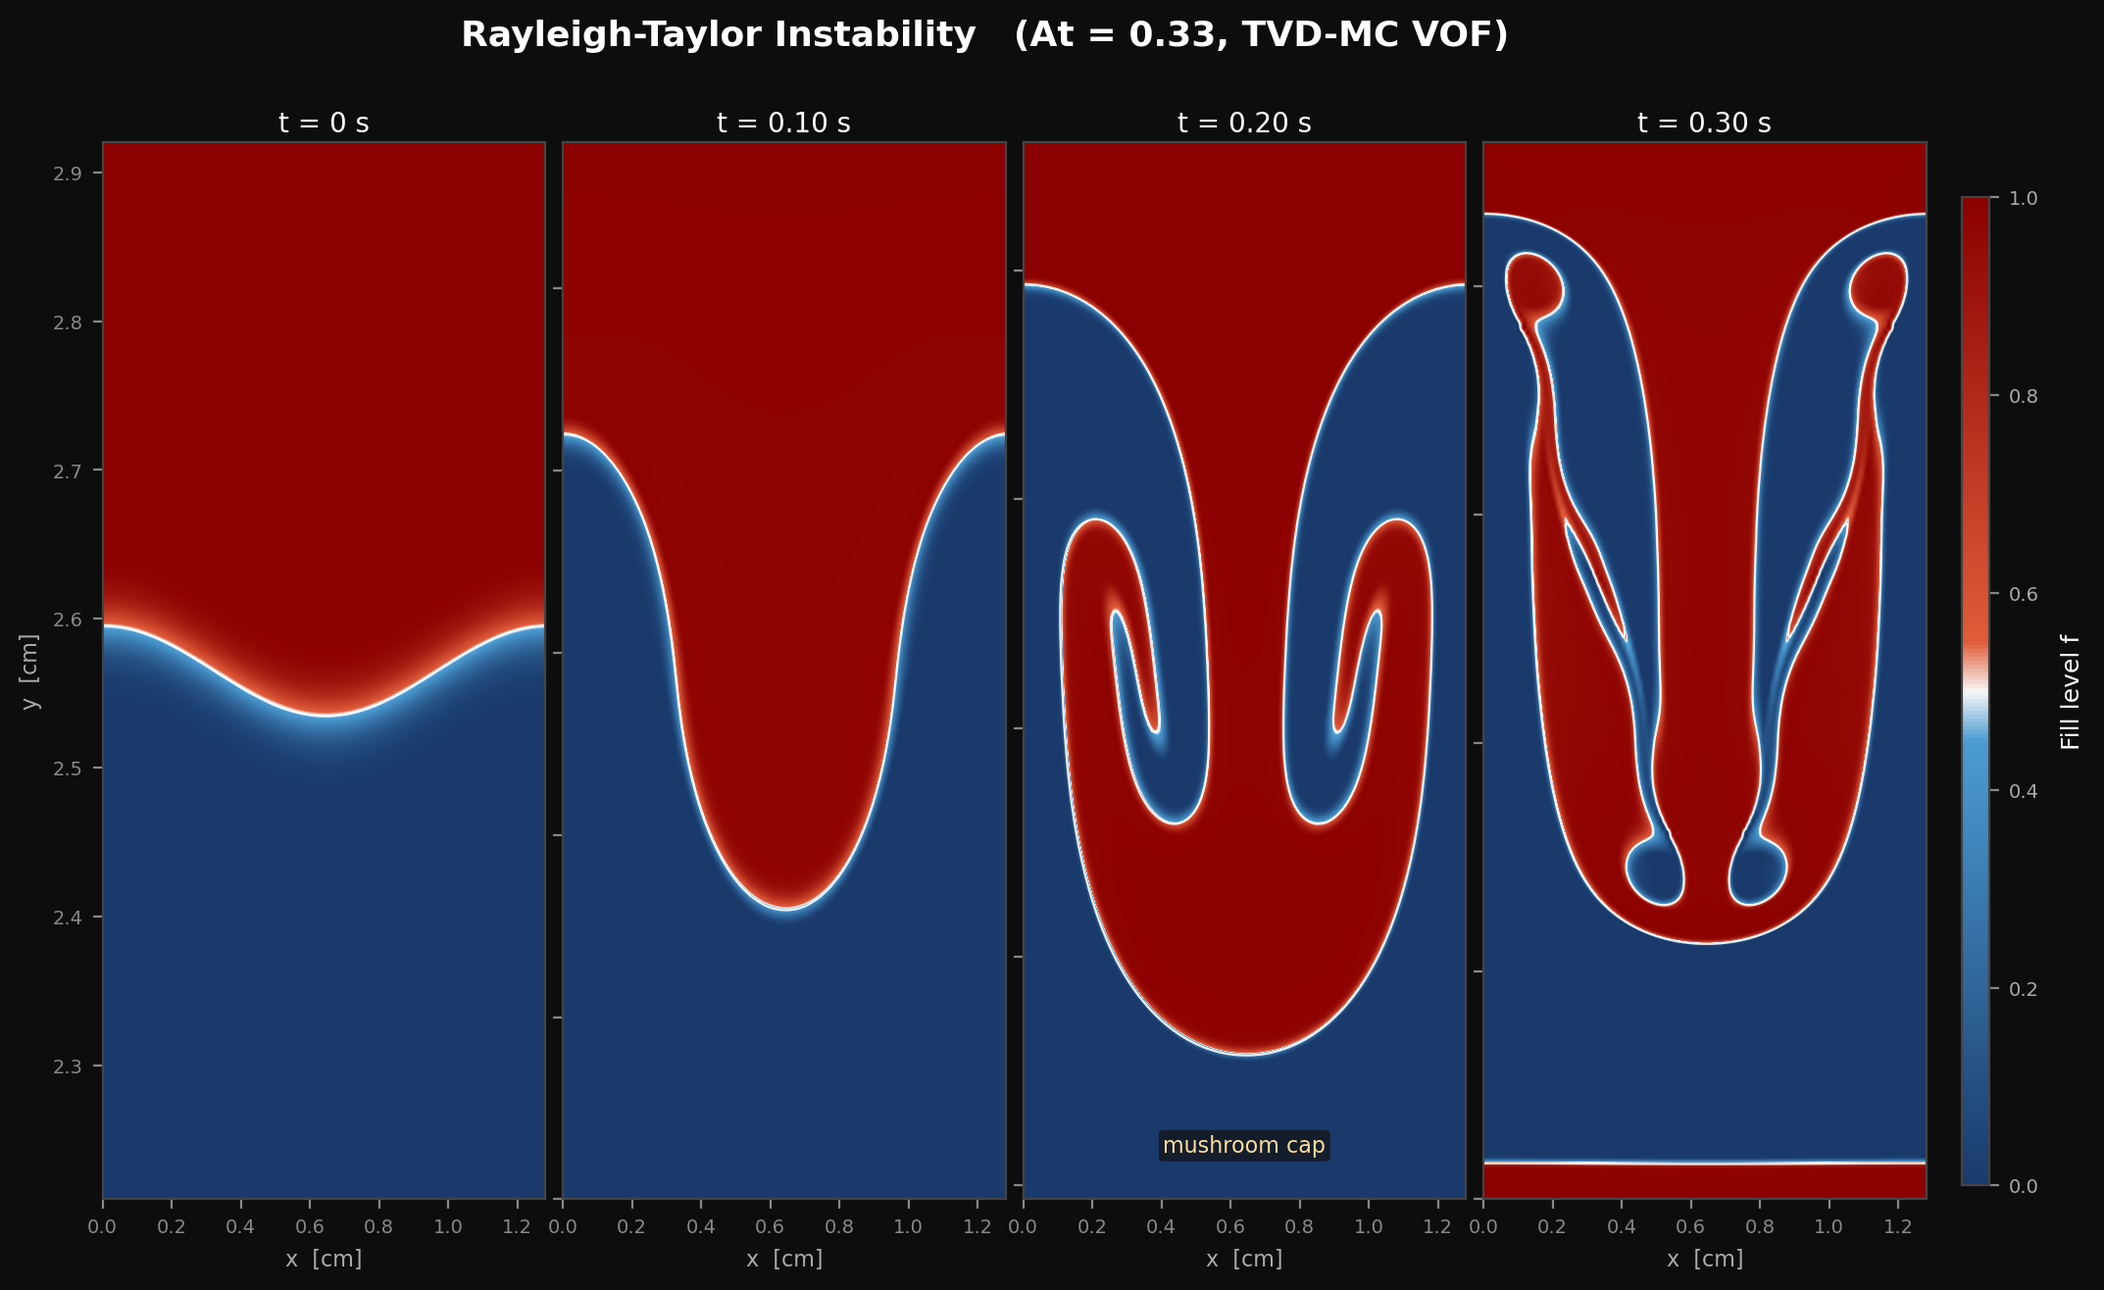
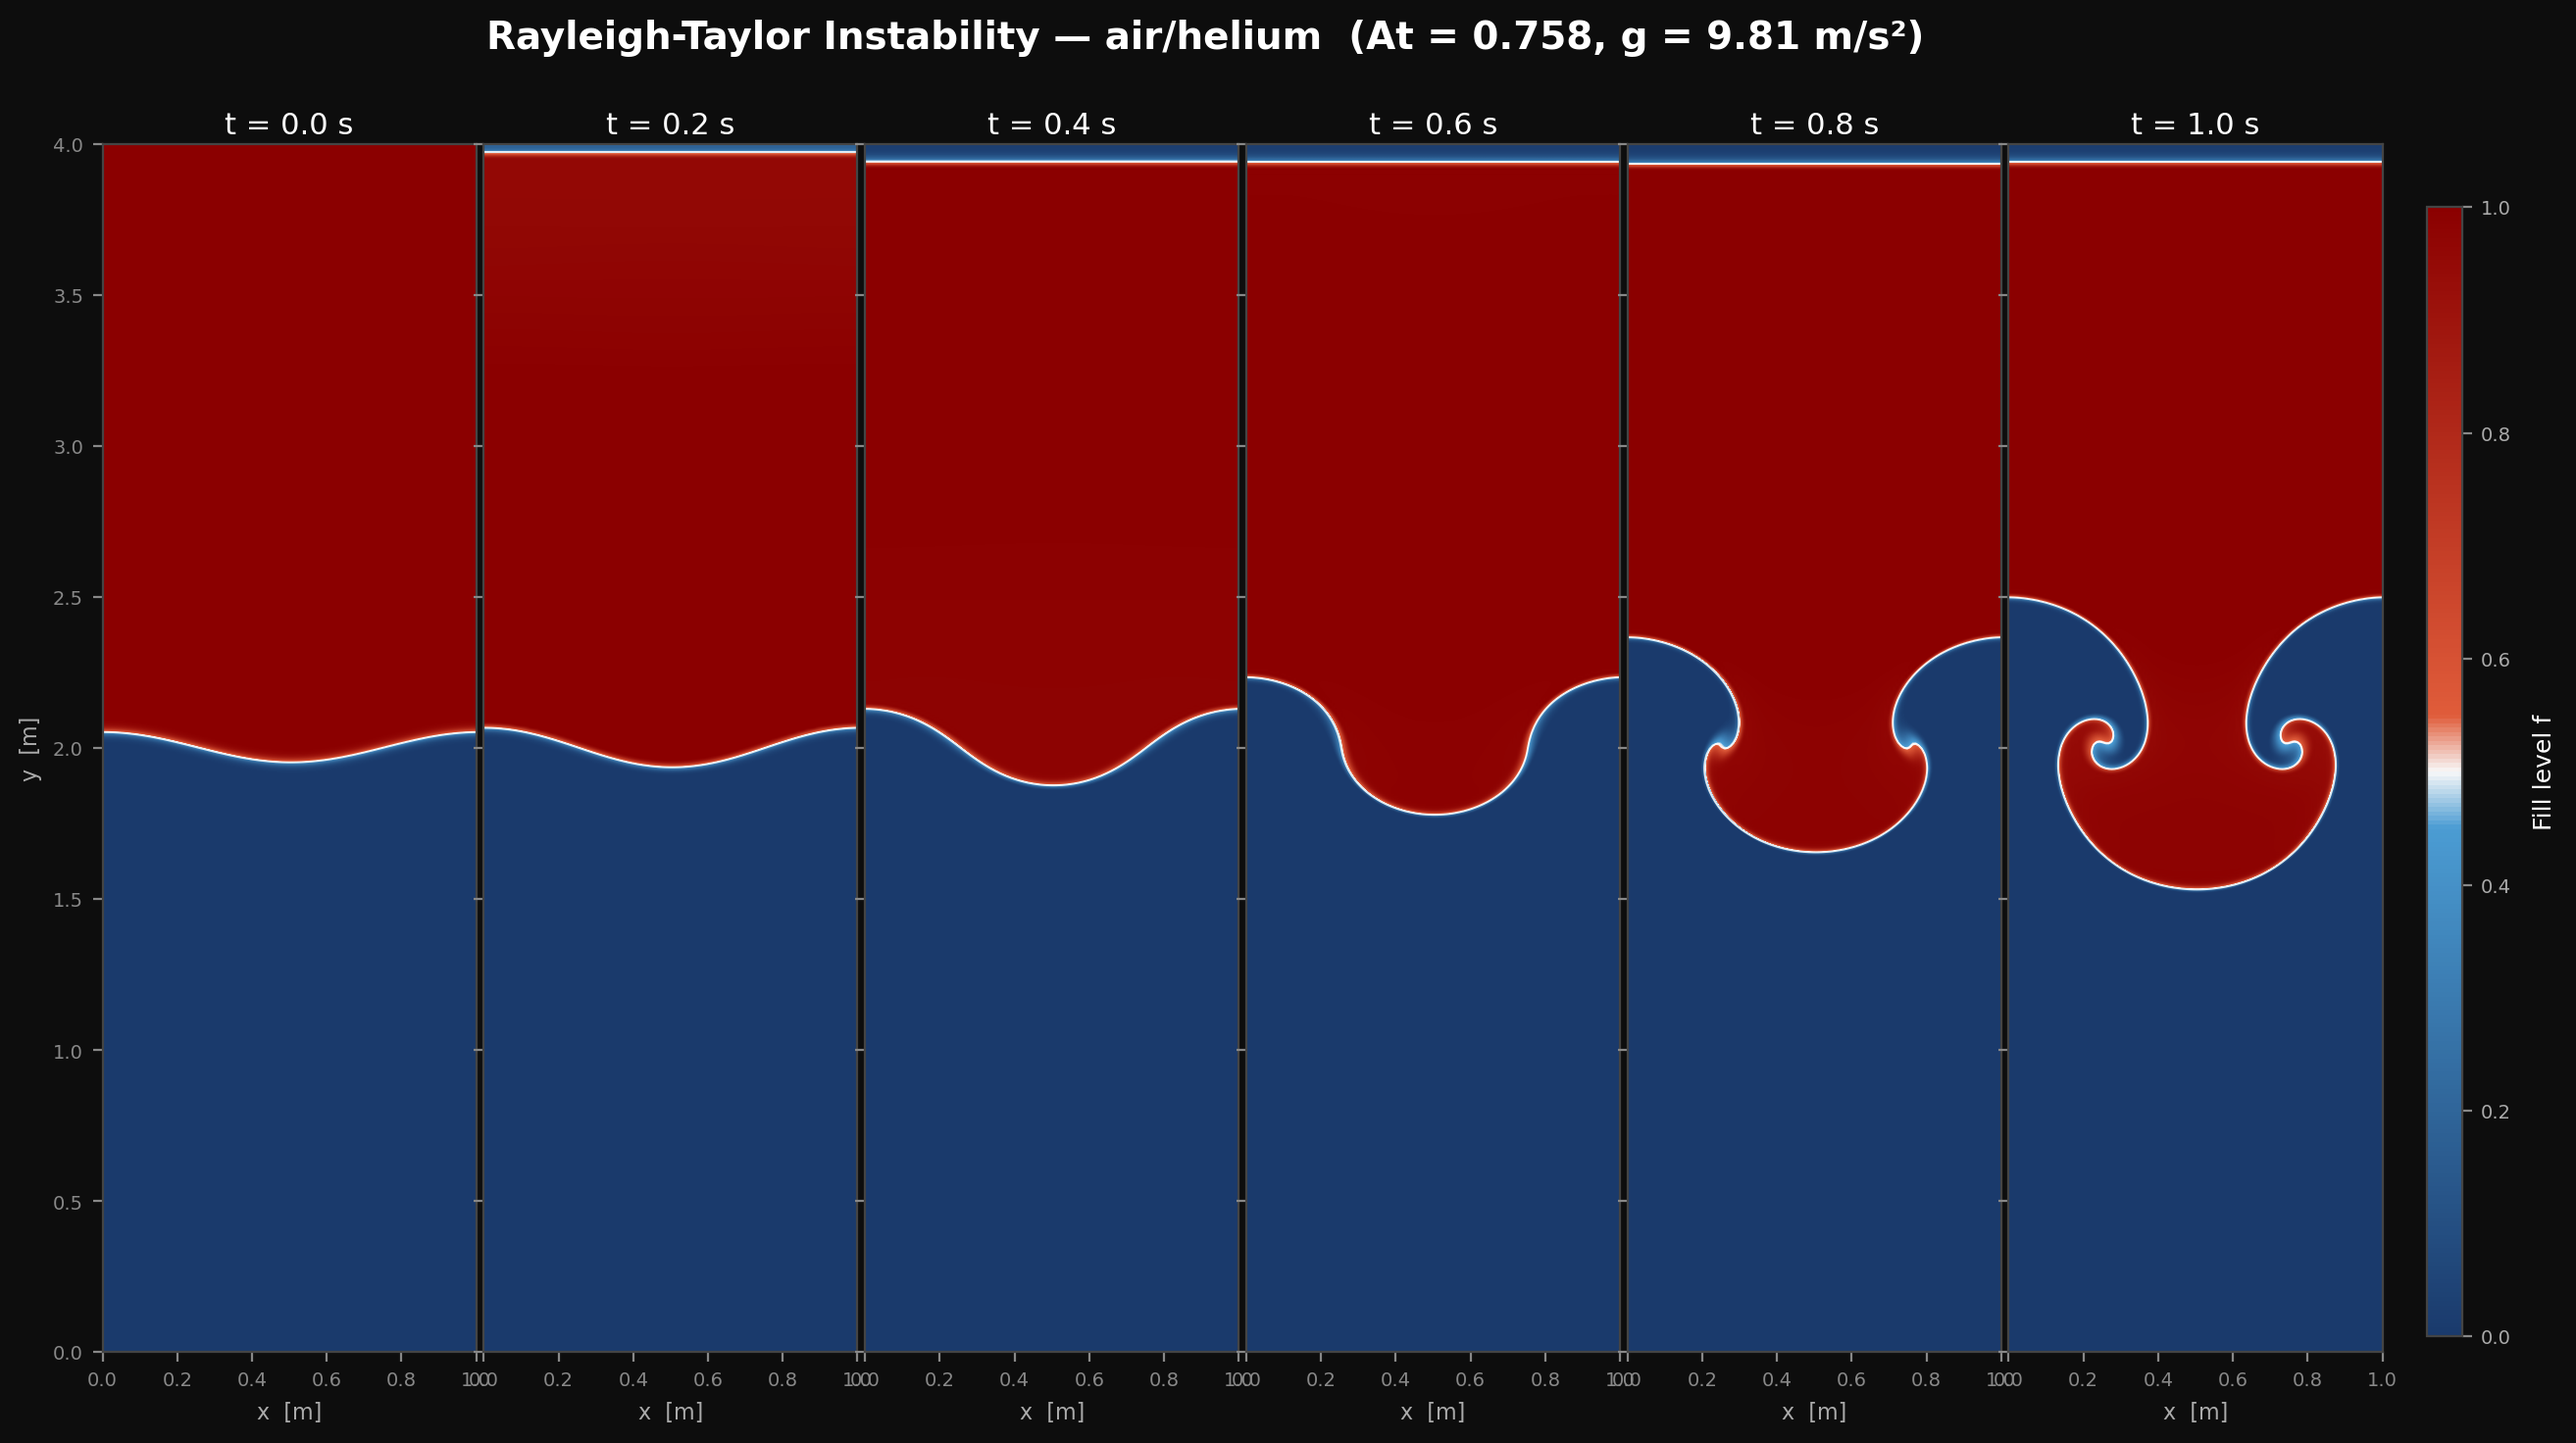
showcase: fix RT periodic-BC bug, tighten cylinder viz, add NACA0012 α=+8°
Three gallery fixes:

1) rt_instability.png — was producing a thin red strip at the bottom of
   the last frame because viz_rt.cu had Y BoundaryType::PERIODIC. The
   heavy fluid spike wrapped through the bottom wall and re-emerged at
   the top. Switch to Y=WALL (FluidLBM + VOFSolver). Also re-parameterise
   to match /home/yzk/JAX-LaserAM/examples/RT_air_helium 1:1: domain
   1.0×4.0 m, dx=7.8125 mm, ρ=1.225/0.169 (At=0.758), g=9.81, σ=0.001
   (CSF), interface y=2 + 0.05·cos(2π x/Lx), 6 frames at t=0..1.0 s.
   Result: clean Kelvin-Helmholtz roll-up at t=0.8-1.0 s, no wrap-around.

2) cylinder_vorticity.png — re-rendered ST 2D-2 D3Q27 Cumulant snapshot
   with tight crop, ±3 1/s scale, gray cylinder marker. Old image had a
   pale wake plus visible parabolic-inlet shear that read as "separation
   ahead of cylinder"; new image makes the Karman vortex street the
   clear focal point.

3) naca_a8_vorticity.png (NEW) — D3Q27 Cumulant NACA0012 at α=+8°,
   Re=1000, D/dx=160 (phaseE_E1 production run, snap_0050000). Vorticity
   ω_z at ±0.8 1/s, tight crop to 8c downstream. Boundary-layer
   separation is visible on both surfaces and the trailing Karman wake
   develops cleanly.

README.md rebuilt into 2×3 gallery: NACA promoted as the new highlighted
aero benchmark next to the cylinder.

Changed region(s): [[0.0, 0.0, 0.9991, 0.997]]

diff --git a/scripts/viz/viz_rayleigh_taylor.py b/scripts/viz/viz_rayleigh_taylor.py
@@ -26,20 +26,22 @@ from pathlib import Path
 DATA_DIR  = Path("/home/yzk/LBMProject/scripts/viz")
 OUT_PATH  = DATA_DIR / "rt_mushroom.png"
 
-# Simulation parameters (must match viz_rt.cu)
-NX, NY = 128, 512        # grid cells
-DX_M   = 1e-4            # m / cell
+# Simulation parameters (must match viz_rt.cu — JAX air/helium config)
+NX, NY = 128, 512                       # grid cells
+LX_M   = 1.0                            # m
+DX_M   = LX_M / NX                      # = 7.8125 mm / cell
 TAU_F  = 0.6
 NU_LBM = (TAU_F - 0.5) / 3.0
-NU_PHY = 5e-6            # m²/s
-DT     = min(NU_LBM * DX_M**2 / NU_PHY, 5e-5)   # s / step
+NU_PHY = 2.5551e-3                      # m²/s (matches air at heavy phase)
+DT     = min(NU_LBM * DX_M**2 / NU_PHY, 5e-4)   # s / step
 
-PANELS = [
-    ("step 0000", 0,    "t = 0 s"),
-    ("step 2000", 2000, "t = {:.2f} s".format(2000 * DT)),
-    ("step 4000", 4000, "t = {:.2f} s".format(4000 * DT)),
-    ("step 6000", 6000, "t = {:.2f} s".format(6000 * DT)),
-]
+# Out frequency from viz_rt.cu: out every 0.1 s
+T_OUT_DT = 0.1
+OUT_FREQ = max(1, int(round(T_OUT_DT / DT)))
+
+# 6 frames at t = 0, 0.2, 0.4, 0.6, 0.8, 1.0 s (matches JAX RT_phase_evolution.png)
+TIMES = [0.0, 0.2, 0.4, 0.6, 0.8, 1.0]
+PANELS = [(f"step {int(round(t/DT)):05d}", int(round(t/DT)), f"t = {t:.1f} s") for t in TIMES]
 
 # ---------------------------------------------------------------------------
 # Helpers
@@ -95,14 +97,14 @@ _CMAP = mcolors.LinearSegmentedColormap.from_list(
 def main():
     fig, axes = plt.subplots(
         1, len(PANELS),
-        figsize=(12, 7),
+        figsize=(15, 8),
         facecolor="#0d0d0d",
-        gridspec_kw={"wspace": 0.04, "hspace": 0.0},
+        gridspec_kw={"wspace": 0.02, "hspace": 0.0},
     )
 
     fig.suptitle(
-        "Rayleigh-Taylor Instability   (At = 0.33, TVD-MC VOF)",
-        color="white", fontsize=13, fontweight="bold", y=0.97,
+        "Rayleigh-Taylor Instability — air/helium  (At = 0.758, g = 9.81 m/s²)",
+        color="white", fontsize=14, fontweight="bold", y=0.96,
     )
 
     im_ref = None
@@ -111,11 +113,12 @@ def main():
         fname = DATA_DIR / f"rt_step{step_idx:04d}.csv"
         data  = load_csv(fname)          # shape (ny, nx) = (512, 128)
 
-        # Crop all panels to the interface-active region
-        view, y0, y1 = crop_interface(data, margin=30)
-        extent_y = (y0 * DX_M * 100, y1 * DX_M * 100)
+        # Show FULL domain so wall behaviour is visible (no auto-crop)
+        view = data
+        y0, y1 = 0, NY
+        extent_y = (y0 * DX_M, y1 * DX_M)               # m
 
-        extent = [0, NX * DX_M * 100, extent_y[0], extent_y[1]]   # cm
+        extent = [0, NX * DX_M, extent_y[0], extent_y[1]]   # m
 
         ax.set_facecolor("#0d0d0d")
         im = ax.imshow(
@@ -133,24 +136,24 @@ def main():
 
         # f=0.5 contour
         y_cells = np.linspace(extent_y[0], extent_y[1], view.shape[0])
-        x_cells = np.linspace(0, NX * DX_M * 100, view.shape[1])
+        x_cells = np.linspace(0, NX * DX_M, view.shape[1])
         ax.contour(
             x_cells, y_cells, view,
             levels=[0.5],
             colors=["white"],
-            linewidths=0.8,
-            alpha=0.9,
+            linewidths=0.7,
+            alpha=0.85,
         )
 
-        ax.set_title(time_label, color="white", fontsize=10, pad=4)
-        ax.set_xlabel("x  [cm]", color="#aaaaaa", fontsize=8)
+        ax.set_title(time_label, color="white", fontsize=11, pad=4)
+        ax.set_xlabel("x  [m]", color="#aaaaaa", fontsize=8)
         ax.tick_params(colors="#888888", labelsize=7)
         for spine in ax.spines.values():
             spine.set_edgecolor("#444444")
 
         # Only label y-axis on leftmost panel
         if ax is axes[0]:
-            ax.set_ylabel("y  [cm]", color="#aaaaaa", fontsize=8)
+            ax.set_ylabel("y  [m]", color="#aaaaaa", fontsize=8)
         else:
             ax.set_yticklabels([])
 
@@ -160,17 +163,6 @@ def main():
     cb.set_label("Fill level f", color="white", fontsize=9, labelpad=8)
     cb.ax.yaxis.set_tick_params(color="#888888", labelcolor="#aaaaaa", labelsize=7)
     cb.outline.set_edgecolor("#444444")
-
-    # Annotation on the mushroom-cap panel (step 4000)
-    mushroom_ax = axes[2]
-    mushroom_ax.text(
-        0.50, 0.04,
-        "mushroom cap",
-        transform=mushroom_ax.transAxes,
-        color="#ffdd99", fontsize=8,
-        ha="center", va="bottom",
-        bbox=dict(boxstyle="round,pad=0.2", facecolor="#111111", alpha=0.7, edgecolor="none"),
-    )
 
     fig.savefig(OUT_PATH, dpi=200, bbox_inches="tight",
                 facecolor="#0d0d0d", edgecolor="none")

diff --git a/scripts/viz/viz_naca_a8.py b/scripts/viz/viz_naca_a8.py
@@ -1,0 +1,111 @@
+#!/usr/bin/env python3
+"""
+NACA0012 α=+8° Re=1000 vorticity — von Karman vortex shedding behind airfoil.
+Reads the high-resolution phaseE_E1 snapshot.
+"""
+import sys, numpy as np, matplotlib.pyplot as plt
+from pathlib import Path
+
+VTK   = Path("/home/yzk/CompressibleCFD/output_phaseE_E1_final/snap_0050000.vtk")
+OUT   = Path("/home/yzk/LBMProject_showcase/gallery/naca_a8_vorticity.png")
+
+# Parse header to know dims, then stream-parse the vectors
+nx = ny = nz = 0
+dx = 0.0
+
+header_lines = 0
+with VTK.open() as fh:
+    for ln in fh:
+        header_lines += 1
+        p = ln.split()
+        if p[:1] == ['DIMENSIONS']:
+            nx, ny, nz = int(p[1]), int(p[2]), int(p[3])
+        elif p[:1] == ['SPACING']:
+            dx = float(p[1])
+        elif p[:1] == ['VECTORS']:
+            break
+
+print(f"Grid {nx}x{ny}x{nz}, dx={dx}")
+n = nx * ny * nz
+print(f"Total cells {n:,}, parsing velocity vectors ({header_lines} header lines)...")
+
+# Skip header_lines lines, then load n rows × 3 cols
+import io
+with VTK.open() as fh:
+    for _ in range(header_lines):
+        fh.readline()
+    arr = np.loadtxt(fh, dtype=np.float32, max_rows=n)
+
+v = arr.reshape(nz, ny, nx, 3)
+del arr
+kz = nz // 2
+ux = v[kz, ..., 0]
+uy = v[kz, ..., 1]
+del v
+print("Vectors loaded.")
+
+# Vorticity
+duydx = np.zeros_like(uy)
+duxdy = np.zeros_like(ux)
+duydx[:, 1:-1] = (uy[:, 2:] - uy[:, :-2]) / (2 * dx)
+duxdy[1:-1, :] = (ux[2:, :] - ux[:-2, :]) / (2 * dx)
+omega_z = duydx - duxdy
+print("Vorticity computed.")
+
+# Tight crop around airfoil + wake (LE at chord=10m, TE at ~11m for α=8°)
+# Domain is 20m × 8m. Airfoil at (10, 4) world coords.
+xmin, xmax = 9.0, 17.0
+ymin, ymax = 3.0, 5.0
+i0, i1 = int(xmin / dx), int(xmax / dx)
+j0, j1 = int(ymin / dx), int(ymax / dx)
+
+# Mask
+mask_path = VTK.parent / "mask_zmid.txt"
+solid = None
+if mask_path.exists():
+    with mask_path.open() as fh:
+        lines = fh.readlines()
+    parts = lines[0].replace('#', '').split()
+    pnx = int([p.split('=')[1] for p in parts if p.startswith('nx=')][0])
+    pny = int([p.split('=')[1] for p in parts if p.startswith('ny=')][0])
+    solid = np.zeros((pny, pnx), dtype=np.uint8)
+    for j, ln in enumerate(lines[1:1+pny]):
+        solid[j] = np.array(ln.split(), dtype=np.uint8)
+
+fig, ax = plt.subplots(figsize=(15, 4.5), facecolor="#0d0d0d")
+ax.set_facecolor("#0d0d0d")
+extent = [i0 * dx, i1 * dx, j0 * dx, j1 * dx]
+
+im = ax.imshow(omega_z[j0:j1, i0:i1], origin='lower', extent=extent,
+               cmap='RdBu_r', vmin=-0.8, vmax=0.8,
+               interpolation='lanczos', aspect='equal')
+
+# Airfoil mask overlay
+if solid is not None:
+    crop_solid = solid[j0:j1, i0:i1].astype(float)
+    crop_solid[crop_solid == 0] = np.nan
+    ax.imshow(crop_solid, origin='lower', extent=extent,
+              cmap='gray_r', vmin=0.5, vmax=1.0, aspect='equal', alpha=0.95,
+              interpolation='nearest')
+
+ax.set_xlim(xmin, xmax)
+ax.set_ylim(ymin, ymax)
+ax.set_title(
+    "NACA0012, Re=1000, α=+8° — D3Q27 Cumulant + Ladd inlet (D/dx=160)  "
+    "—  vortex shedding wake",
+    color="white", fontsize=12, fontweight="bold", pad=8
+)
+ax.set_xlabel("x [m]", color="#cccccc", fontsize=10)
+ax.set_ylabel("y [m]", color="#cccccc", fontsize=10)
+ax.tick_params(colors="#888888", labelsize=8)
+for spine in ax.spines.values():
+    spine.set_edgecolor("#444444")
+
+cbar = fig.colorbar(im, ax=ax, shrink=0.85, pad=0.01)
+cbar.set_label(r"$\omega_z$  [1/s]", color="white", fontsize=10)
+cbar.ax.yaxis.set_tick_params(color="#888888", labelcolor="#aaaaaa", labelsize=8)
+cbar.outline.set_edgecolor("#444444")
+
+fig.savefig(OUT, dpi=180, bbox_inches="tight",
+            facecolor="#0d0d0d", edgecolor="none")
+print(f"Saved: {OUT}")

diff --git a/scripts/viz/viz_cylinder_st2d2.py b/scripts/viz/viz_cylinder_st2d2.py
@@ -1,0 +1,85 @@
+#!/usr/bin/env python3
+"""
+Schäfer-Turek 2D-2 cylinder vorticity — striking visual of Karman vortex
+street. Reads ASCII VTK velocity field, computes ω_z, renders a tight
+crop around cylinder with the wake.
+"""
+import sys, numpy as np, matplotlib.pyplot as plt
+from pathlib import Path
+
+VTK   = Path("/home/yzk/CompressibleCFD/output_BEST_cumulant_d20_st2d2/snap_0030000.vtk")
+OUT   = Path("/home/yzk/LBMProject_showcase/gallery/cylinder_vorticity.png")
+
+# Parse ASCII VTK ImageData with VECTORS velocity
+with VTK.open() as fh:
+    lines = fh.readlines()
+nx = ny = nz = 0
+dx = 0.0
+data_start = -1
+for i, ln in enumerate(lines):
+    p = ln.split()
+    if p[:1] == ['DIMENSIONS']:
+        nx, ny, nz = int(p[1]), int(p[2]), int(p[3])
+    elif p[:1] == ['SPACING']:
+        dx = float(p[1])
+    elif p[:1] == ['VECTORS']:
+        data_start = i + 1
+        break
+n = nx * ny * nz
+v = np.empty((n, 3), dtype=np.float32)
+for k, ln in enumerate(lines[data_start:data_start + n]):
+    pp = ln.split()
+    v[k, 0] = float(pp[0]); v[k, 1] = float(pp[1]); v[k, 2] = float(pp[2])
+v = v.reshape(nz, ny, nx, 3)
+ux = v[nz // 2, ..., 0]
+uy = v[nz // 2, ..., 1]
+
+# Vorticity ω_z = ∂v/∂x − ∂u/∂y
+duydx = np.zeros_like(uy)
+duxdy = np.zeros_like(ux)
+duydx[:, 1:-1] = (uy[:, 2:] - uy[:, :-2]) / (2 * dx)
+duxdy[1:-1, :] = (ux[2:, :] - ux[:-2, :]) / (2 * dx)
+omega_z = duydx - duxdy
+
+# Convert to LU units consistent with simulation: dx_phys=0.005m, c=Dia 0.1m
+# Show in 1/s. For DFG conventions U_mean = 1 m/s, D = 0.1, so charactaristic
+# ω scale is U/D = 10 1/s. Use vmin/vmax = ±15 to show fine structure.
+
+# Tight crop: cylinder at (0.2, 0.2) in 2.2×0.41 domain; show wake to x=1.5
+xmin_crop, xmax_crop = 0.05, 1.5     # m
+ymin_crop, ymax_crop = 0.0,  0.41
+i0, i1 = int(xmin_crop / dx), int(xmax_crop / dx)
+j0, j1 = int(ymin_crop / dx), min(ny, int(ymax_crop / dx))
+
+fig, ax = plt.subplots(figsize=(14, 4), facecolor="#0d0d0d")
+ax.set_facecolor("#0d0d0d")
+extent = [i0 * dx, i1 * dx, j0 * dx, j1 * dx]
+im = ax.imshow(omega_z[j0:j1, i0:i1], origin='lower', extent=extent,
+               cmap='RdBu_r', vmin=-3, vmax=3, interpolation='lanczos',
+               aspect='equal')
+# Cylinder marker
+from matplotlib.patches import Circle
+ax.add_patch(Circle((0.2, 0.2), 0.05, fill=True, facecolor='#cccccc',
+                    edgecolor='black', lw=1.0, zorder=5))
+
+ax.set_xlim(xmin_crop, xmax_crop)
+ax.set_ylim(ymin_crop, ymax_crop)
+ax.set_title(
+    "Schäfer-Turek 2D-2 cylinder, Re=100, D3Q27 Cumulant + Ladd inlet  "
+    "—  $C_d$ = 3.156 (DFG band [3.22, 3.24], −2.3%)",
+    color="white", fontsize=12, fontweight="bold", pad=8
+)
+ax.set_xlabel("x [m]", color="#cccccc", fontsize=10)
+ax.set_ylabel("y [m]", color="#cccccc", fontsize=10)
+ax.tick_params(colors="#888888", labelsize=8)
+for spine in ax.spines.values():
+    spine.set_edgecolor("#444444")
+
+cbar = fig.colorbar(im, ax=ax, shrink=0.85, pad=0.01)
+cbar.set_label(r"$\omega_z$  [1/s]", color="white", fontsize=10)
+cbar.ax.yaxis.set_tick_params(color="#888888", labelcolor="#aaaaaa", labelsize=8)
+cbar.outline.set_edgecolor("#444444")
+
+fig.savefig(OUT, dpi=180, bbox_inches="tight",
+            facecolor="#0d0d0d", edgecolor="none")
+print(f"Saved: {OUT}")

diff --git a/README.md b/README.md
@@ -32,9 +32,14 @@
 </td>
 </tr>
 <tr>
+<td align="center"><img src="gallery/naca_a8_vorticity.png" alt="NACA0012 a=8 vorticity"><br><sub><b>NACA0012 α=+8° Re=1000 涡量场</b><br>D3Q27 Cumulant · D/dx=160 · von Karman 涡街</sub></td>
+<td align="center"><img src="gallery/rt_instability.png" alt="Rayleigh-Taylor"><br><sub><b>Rayleigh-Taylor 不稳定（air/helium）</b><br>At = 0.758 · TVD-MC VOF · 蘑菇头 + KH 卷</sub></td>
 <td align="center"><img src="gallery/lid_cavity.png" alt="Lid-driven cavity"><br><sub><b>Lid-Driven Cavity Re=1000</b><br>vs Ghia 1982（17 点）</sub></td>
-<td align="center"><img src="gallery/rt_instability.png" alt="Rayleigh-Taylor"><br><sub><b>Rayleigh-Taylor 不稳定</b><br>VOF/PLIC · $\gamma_{\rm fit}/\gamma_{\rm th}$</sub></td>
+</tr>
+<tr>
 <td align="center"><img src="gallery/tgv_decay.png" alt="Taylor-Green decay"><br><sub><b>Taylor-Green 涡衰减</b><br>$E(t)/E_0$ vs $\exp(-4\nu k^2 t)$</sub></td>
+<td align="center"><img src="gallery/nat_conv.png" alt="Natural convection"><br><sub><b>自然对流 Ra=10⁴</b><br>vs de Vahl Davis 1983</sub></td>
+<td></td>
 </tr>
 </table>
 
